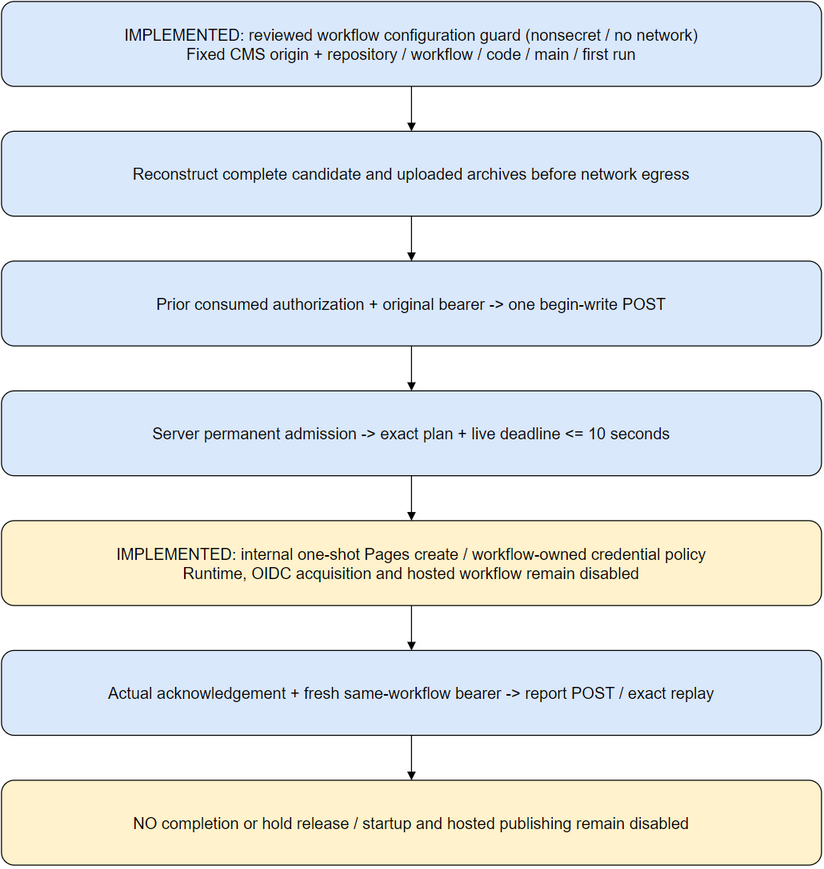
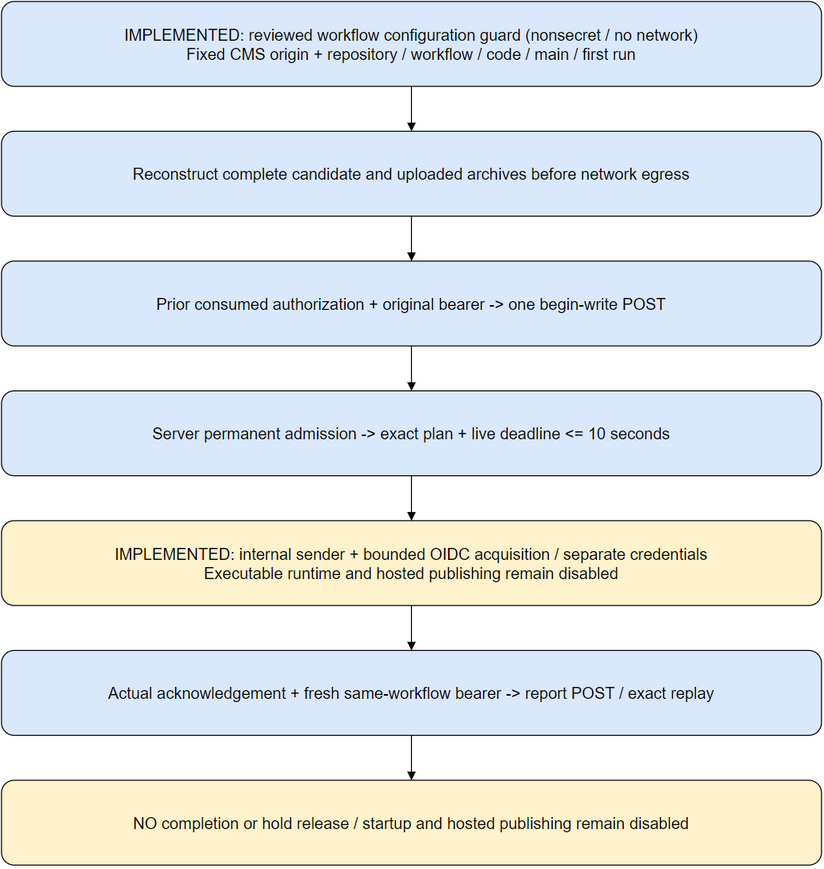
feat(publishing): acquire bounded workflow OIDC tokens from a pinned origin
- Validate deployment context before accessing runner issuance credentials.
- Pin the reviewed issuer origin, explicit audience and finite issuance budget.
- Reject redirects, malformed responses and credential forwarding; keep CMS signature checks authoritative.
- Document local tests and trust limits and synchronize diagrams without enabling hosted runtime.

Tag: none
Phase: Bounded workflow OIDC acquisition

Tags:
- Type: #feature, #security
- Platform: #golang, #astro
- Content: #publishing, #oidc
- Delivery: #checkpoint, #untagged
- Quality: #tested, #documented

Changed region(s): [[0.1214, 0.6214, 0.8495, 0.6835]]

diff --git a/scripts/pages-tool/workflow_oidc.go b/scripts/pages-tool/workflow_oidc.go
@@ -1,0 +1,98 @@
+// Workflow OIDC acquisition isolates runner credentials from CMS and provider API transports.
+package main
+
+import (
+	"context"
+	"crypto/tls"
+	jsonv2 "encoding/json/v2"
+	"io"
+	"mime"
+	"net"
+	"net/http"
+	"net/url"
+	"regexp"
+	"strings"
+	"sync/atomic"
+	"time"
+)
+
+// workflowOIDC pins a reviewed issuance origin, runtime endpoint and explicit audience.
+// Two lifetime attempts cover initial authorization and report acquisition; no retry or cache is implicit.
+type workflowOIDC struct {
+	endpoint, credential string
+	http                 *http.Client
+	calls                atomic.Int32
+}
+
+// newWorkflowOIDC checks nonsecret deployment context before reading runner-only OIDC variables.
+// origin is protected reviewed configuration, never derived from the endpoint or public dispatch input.
+func newWorkflowOIDC(p deploymentPolicy, origin string, get func(string) string) (*workflowOIDC, error) {
+	settings, e := validateDeploymentSettings(p, get)
+	if e != nil {
+		return nil, errReceiver
+	}
+	return workflowOIDCAt(origin, get("ACTIONS_ID_TOKEN_REQUEST_URL"), get("ACTIONS_ID_TOKEN_REQUEST_TOKEN"), settings.Audience, false)
+}
+
+// workflowOIDCAt accepts loopback only in package fixtures; production pins HTTPS and exact reviewed origin.
+func workflowOIDCAt(origin, endpoint, credential, audience string, loopback bool) (*workflowOIDC, error) {
+	o, e := url.Parse(origin)
+	u, f := url.Parse(endpoint)
+	if e != nil || f != nil || o.User != nil || o.Path != "" || o.RawQuery != "" || o.ForceQuery || o.Fragment != "" || origin != o.Scheme+"://"+o.Host || u.User != nil || u.Fragment != "" || u.Scheme+"://"+u.Host != origin || u.Path == "" || len(endpoint) > 4096 || len(credential) < 1 || len(credential) > 16384 || !regexp.MustCompile(`^[A-Za-z0-9._~-]+$`).MatchString(credential) || !regexp.MustCompile(`^https://github\.com/[A-Za-z0-9][A-Za-z0-9._-]{0,99}$`).MatchString(audience) {
+		return nil, errReceiver
+	}
+	production := o.Scheme == "https" && (o.Port() == "" || o.Port() == "443") && strings.HasSuffix(o.Hostname(), ".actions.githubusercontent.com") && regexp.MustCompile(`^[a-z0-9.-]+$`).MatchString(o.Hostname())
+	if !production && !(loopback && o.Scheme == "http" && (o.Hostname() == "127.0.0.1" || o.Hostname() == "::1")) {
+		return nil, errReceiver
+	}
+	query, e := url.ParseQuery(u.RawQuery)
+	if e != nil {
+		return nil, errReceiver
+	}
+	if _, present := query["audience"]; present {
+		return nil, errReceiver
+	}
+	query.Set("audience", audience)
+	u.RawQuery = query.Encode()
+	transport := &http.Transport{Proxy: nil, DialContext: (&net.Dialer{Timeout: 3 * time.Second}).DialContext, TLSClientConfig: &tls.Config{MinVersion: tls.VersionTLS12}, TLSHandshakeTimeout: 3 * time.Second, ResponseHeaderTimeout: 5 * time.Second, MaxResponseHeaderBytes: 8192, DisableCompression: true, DisableKeepAlives: true}
+	return &workflowOIDC{endpoint: u.String(), credential: credential, http: &http.Client{Transport: transport, Timeout: 8 * time.Second, CheckRedirect: func(*http.Request, []*http.Request) error { return http.ErrUseLastResponse }}}, nil
+}
+
+// close releases idle connections without resetting the lifetime issuance budget.
+func (c *workflowOIDC) close() { c.http.CloseIdleConnections() }
+
+// acquire makes one bounded GET and returns only a compact token; claims here are not trusted or signature-verified.
+// CMS must independently verify the issuer, signature, identity, audience, time and current durable authority.
+func (c *workflowOIDC) acquire(ctx context.Context) (string, error) {
+	if c == nil || c.calls.Add(1) > 2 || ctx.Err() != nil {
+		return "", errReceiver
+	}
+	ctx, cancel := context.WithTimeout(ctx, 8*time.Second)
+	defer cancel()
+	req, e := http.NewRequestWithContext(ctx, "GET", c.endpoint, nil)
+	if e != nil {
+		return "", errReceiver
+	}
+	req.Header.Set("Authorization", "Bearer "+c.credential)
+	req.Header.Set("Accept", "application/json")
+	response, e := c.http.Do(req)
+	if e != nil {
+		return "", errReceiver
+	}
+	defer response.Body.Close()
+	typ, _, e := mime.ParseMediaType(response.Header.Get("Content-Type"))
+	if e != nil || typ != "application/json" || response.StatusCode != 200 || response.ContentLength > 32768 || response.Header.Get("Content-Encoding") != "" {
+		return "", errReceiver
+	}
+	raw, e := io.ReadAll(io.LimitReader(response.Body, 32769))
+	if e != nil || len(raw) > 32768 {
+		return "", errReceiver
+	}
+	var token struct {
+		Value string `json:"value"`
+	}
+	if jsonv2.Unmarshal(raw, &token, jsonv2.RejectUnknownMembers(true)) != nil || len(token.Value) > 16384 || !regexp.MustCompile(`^[A-Za-z0-9_-]+\.[A-Za-z0-9_-]+\.[A-Za-z0-9_-]+$`).MatchString(token.Value) || ctx.Err() != nil {
+		return "", errReceiver
+	}
+	return token.Value, nil
+}

diff --git a/scripts/pages-tool/workflow_oidc_test.go b/scripts/pages-tool/workflow_oidc_test.go
@@ -1,0 +1,122 @@
+// Issuance tests use synthetic loopback tokens and never request live credentials.
+package main
+
+import (
+	"context"
+	"fmt"
+	"net/http"
+	"net/http/httptest"
+	"strings"
+	"sync/atomic"
+	"testing"
+)
+
+// TestWorkflowOIDCAcquisition bounds issuance, enforces fixed origin/query/header and rejects unsafe replies.
+func TestWorkflowOIDCAcquisition(t *testing.T) {
+	for _, kind := range []string{"valid", "status", "redirect", "mime", "encoding", "large", "duplicate", "unknown", "null", "empty", "malformed", "token-large", "cancelled", "lost"} {
+		t.Run(kind, func(t *testing.T) {
+			var calls atomic.Int32
+			server := httptest.NewServer(http.HandlerFunc(func(w http.ResponseWriter, r *http.Request) {
+				calls.Add(1)
+				if r.Method != "GET" || r.URL.Path != "/issue" || r.URL.Query().Get("audience") != "https://github.com/example" || r.URL.Query().Get("api-version") != "2.0" || r.Header.Get("Authorization") != "Bearer fixture-runner-credential" || r.Header.Get("Cookie") != "" || r.Header.Get("Origin") != "" {
+					t.Error("issuance transport")
+				}
+				w.Header().Set("Content-Type", "application/json")
+				switch kind {
+				case "status":
+					w.WriteHeader(429)
+				case "redirect":
+					http.Redirect(w, r, "/other", 302)
+					return
+				case "mime":
+					w.Header().Set("Content-Type", "text/plain")
+				case "encoding":
+					w.Header().Set("Content-Encoding", "gzip")
+				case "large":
+					fmt.Fprint(w, strings.Repeat("x", 32769))
+					return
+				case "duplicate":
+					fmt.Fprint(w, `{"value":"a.b.c","value":"a.b.c"}`)
+					return
+				case "unknown":
+					fmt.Fprint(w, `{"value":"a.b.c","other":true}`)
+					return
+				case "null":
+					fmt.Fprint(w, `{"value":null}`)
+					return
+				case "empty":
+					fmt.Fprint(w, `{}`)
+					return
+				case "malformed":
+					fmt.Fprint(w, `{"value":"bad"}`)
+					return
+				case "token-large":
+					fmt.Fprintf(w, `{"value":"%s.b.c"}`, strings.Repeat("a", 16385))
+					return
+				case "lost":
+					conn, _, _ := w.(http.Hijacker).Hijack()
+					conn.Close()
+					return
+				}
+				fmt.Fprint(w, `{"value":"fixture.payload.signature"}`)
+			}))
+			defer server.Close()
+			client, e := workflowOIDCAt(server.URL, server.URL+"/issue?api-version=2.0", "fixture-runner-credential", "https://github.com/example", true)
+			if e != nil {
+				t.Fatal(e)
+			}
+			defer client.close()
+			ctx, cancel := context.WithCancel(context.Background())
+			defer cancel()
+			if kind == "cancelled" {
+				cancel()
+			}
+			token, e := client.acquire(ctx)
+			if (e == nil) != (kind == "valid") {
+				t.Fatal("unsafe issuance outcome", e)
+			}
+			if e != nil && token != "" {
+				t.Fatal("token returned on failure")
+			}
+			_, _ = client.acquire(ctx)
+			if _, e := client.acquire(ctx); e != errReceiver {
+				t.Fatal("budget reset")
+			}
+			want := int32(2)
+			if kind == "cancelled" {
+				want = 0
+			}
+			if calls.Load() != want {
+				t.Fatal("issuance retries", calls.Load())
+			}
+		})
+	}
+}
+
+// TestWorkflowOIDCPolicy rejects endpoint substitution, ambiguous audiences and credential injection before egress.
+func TestWorkflowOIDCPolicy(t *testing.T) {
+	origin := "https://runner.actions.githubusercontent.com"
+	endpoint := origin + "/issue?api-version=2.0"
+	c, e := workflowOIDCAt(origin, endpoint, "fixture-token", "https://github.com/example", false)
+	if e != nil {
+		t.Fatal(e)
+	}
+	defer c.close()
+	for _, bad := range []string{"https://evil.example/issue", origin + ".evil.example/issue", origin + "/issue?audience=other", origin + "/issue#fragment", "http://runner.actions.githubusercontent.com/issue", "https://user@runner.actions.githubusercontent.com/issue"} {
+		if _, e := workflowOIDCAt(origin, bad, "fixture-token", "https://github.com/example", false); e != errReceiver {
+			t.Fatal("unsafe endpoint")
+		}
+	}
+	if _, e := workflowOIDCAt(origin, endpoint, "bad\r\nheader", "https://github.com/example", false); e != errReceiver {
+		t.Fatal("credential injection")
+	}
+	read := func(key string) string {
+		if strings.Contains(key, "TOKEN") {
+			t.Fatal("credential read before guard")
+		}
+		return ""
+	}
+	if _, e := newWorkflowOIDC(deploymentPolicy{}, origin, read); e != errReceiver {
+		t.Fatal("guard bypass")
+	}
+}

diff --git a/docs/cms-workflow-oidc.md b/docs/cms-workflow-oidc.md
@@ -1,0 +1,46 @@
+# Bounded workflow OIDC acquisition
+
+Updated 9 November 2026 (Asia/Jakarta).
+
+Astro `scripts/pages-tool/workflow_oidc.go` implements an internal issuer client.
+`newWorkflowOIDC` first checks the reviewed deployment policy and observations,
+then reads only the runner OIDC endpoint and request bearer. Its separate reviewed
+origin must exactly match the endpoint origin; production accepts root HTTPS on
+a DNS host beneath `.actions.githubusercontent.com`, default/443 port only.
+This origin is protected configuration, never derived from unsigned request JSON
+or from the endpoint being validated. Live runner origin selection remains unwired.
+
+GitHub documents `ACTIONS_ID_TOKEN_REQUEST_URL` and
+`ACTIONS_ID_TOKEN_REQUEST_TOKEN` as the issuance interface in its
+[OIDC reference](https://docs.github.com/en/actions/reference/security/oidc).
+The client preserves runner query parameters and adds exactly one explicitly
+encoded owner-scoped audience. Existing audience parameters, fragments, userinfo,
+substituted origins and malformed credentials fail closed. The request bearer
+goes only to the pinned issuance endpoint, never the CMS or Pages API.
+
+Each instance has two lifetime issuance attempts: initial token and report token.
+There is no implicit retry, caching or third acquisition. Cancelled/failed calls
+spend budget. A newly requested token is not guaranteed to have a different JTI;
+the CMS decides whether its signed identity is acceptable. TLS 1.2 minimum,
+eight-second total timeout, finite headers/body, no proxy/cookies/redirects/
+compression or connection reuse constrain transport and prevent reused-socket GET
+replay. Only JSON 200 with one `value` field and a compact token up to 16 KiB is
+accepted; response maximum is 32 KiB. No bodies, endpoints or credentials are logged
+or returned in errors. Local shape checks do not verify signatures or trust claims.
+
+CMS independently verifies issuer/RSA signature, pinned audience/workflow/code/run,
+live time and durable current authority. This acquisition helper supplies no grant
+and does not change CMS verification policy. Before hosted rollout, reviewed CMS
+audience must match the selected audience and actual GitHub Pages acceptance must
+be checked. No live audience/provider compatibility is claimed here.
+
+Synthetic loopback tests cover status, redirect, lost reply, MIME, encoding, body
+size, duplicate/unknown/null/missing/oversize/malformed tokens, cancellation,
+attempt budget, endpoint substitution and credential injection. Bad context never
+reads credential variables. No issuer-signed live token or joined hosted workflow
+is used. Current production configuration, secrets and editing DB are untouched.
+
+No CLI/runtime registration, workflow permissions, public output contract or schema
+changes (CMS remains 35). Next: connect guarded configuration and token acquisition
+to the sender in an explicitly reviewed runtime, then completion and hold release.
+Hosted publishing remains disabled.

diff --git a/CHANGELOG.md b/CHANGELOG.md
@@ -57,6 +57,10 @@ Unreleased
 
 #### Publishing
 
+- Reject substituted workflow, repository, code, origin and audience observations before credentials.
+- Require explicit opt-in and exact main first-attempt protected runtime context.
+- Document environment trust limits, tests and remaining OIDC acquisition gate.
+- Synchronize security evidence and native diagrams without enabling hosted publishing.
 - Join complete local verification, one-use admission, one provider POST and authenticated reporting.
 - Separate workflow provider credentials from private CMS dispatch credentials.
 - Preserve actual acknowledgements for report-only recovery without repeating deployment creation.
@@ -64,7 +68,6 @@ Unreleased
 - Independently verify complete archives before exact machine admission and report exchanges.
 - Enforce one-shot admission, bounded no-store responses and exact plan/deadline binding.
 - Keep explicit receipt replay separate from provider writes and document security limits.
-- Update tests, security evidence and native diagrams without enabling hosted publishing.
 - Add a standard-library-only fixed-target GitHub acquisition and canonical repack tool.
 - Separate API credentials from bounded public-IP-pinned signed downloads.
 - Reject changed provenance, reruns, unsafe archives and source/payload pin mismatches.
@@ -73,9 +76,9 @@ Unreleased
 - Add credential-free Go CI, hostile protocol/archive/context and executable workflow guard tests.
 - Verify genuine private/public repacks through independent complete Node TAR checks.
 - Keep authenticated CMS coordination and actual deployment/completion as future gates.
-- Reject substituted workflow, repository, code, origin and audience observations before credentials.
-- Require explicit opt-in and exact main first-attempt protected runtime context.
-- Document environment trust limits, tests and remaining OIDC acquisition gate.
+- Validate deployment context before accessing runner issuance credentials.
+- Pin the reviewed issuer origin, explicit audience and finite issuance budget.
+- Reject redirects, malformed responses and credential forwarding; keep CMS signature checks authoritative.
 
 ### 📚 Documentation
 

diff --git a/docs/security/cms-workflow-oidc.md b/docs/security/cms-workflow-oidc.md
@@ -1,0 +1,21 @@
+# Workflow OIDC acquisition evidence
+
+9 November 2026 (Asia/Jakarta).
+
+Source/tests: Astro `workflow_oidc.go` and `workflow_oidc_test.go`. Synthetic local
+HTTP fixtures exercise fixed bearer origin, exact audience/query preservation,
+fourteen acquisition cases, two-attempt lifetime cap, endpoint/configuration
+rejection and credential injection. No live token, Pages request or CMS mutation
+is made. Returned token shape is not signature verification; private CMS RSA and
+current-authority tests remain separate. Trusted configuration, TLS/system trust,
+protected runner integrity and synchronized clocks remain assumptions. No hosted
+proof, penetration test or vulnerability-free guarantee is claimed.
+
+Standalone Go tests and vet passed; module statement coverage is 90.7% (not
+full CMS coverage). Full `pnpm validate` passed formatting, lint, 53-file Astro
+check with zero diagnostics, 25 unit tests, 23 repository tests and static build.
+Native diagrams exported and rendered labels reviewed. Both checkpoint messages
+passed the installed Custy validator. Gitleaks retained-history and changed-source
+scans and whitespace checks passed. No race-detector or hosted proof is claimed.
+No migration is needed (35); no database code changed. Production copies and
+live credentials remain untouched. No staging, commit, tag or deployment occurred.

diff --git a/docs/cms-deployment-settings.md b/docs/cms-deployment-settings.md
@@ -31,3 +31,5 @@ is unchanged; no database code changed and no migration is needed (schema 35).
 
 Next: bounded OIDC acquisition and verified runtime wiring. Deployment, completion
 and ordering-hold release remain disabled. Production copies remain untouched.
+
+[OIDC acquisition](cms-workflow-oidc.md) is implemented internally; executable publishing remains disabled.
